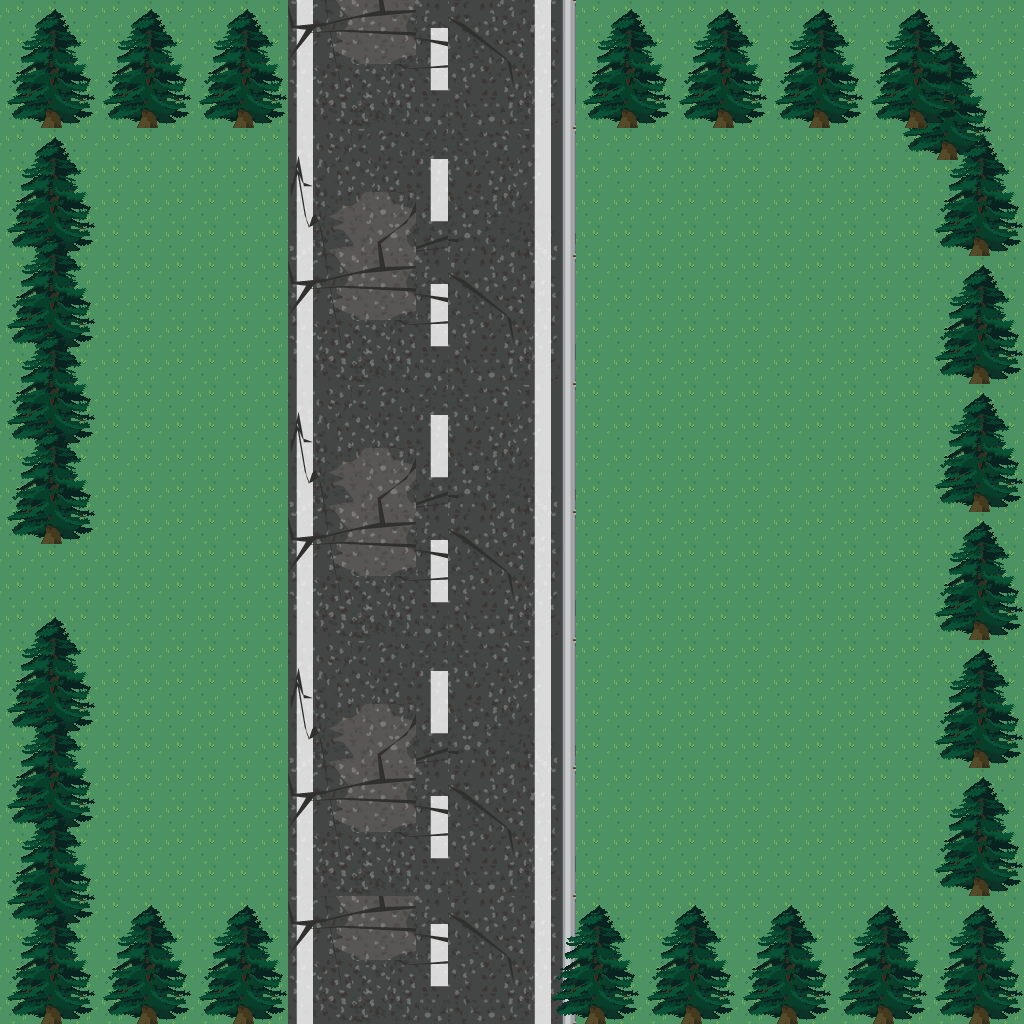
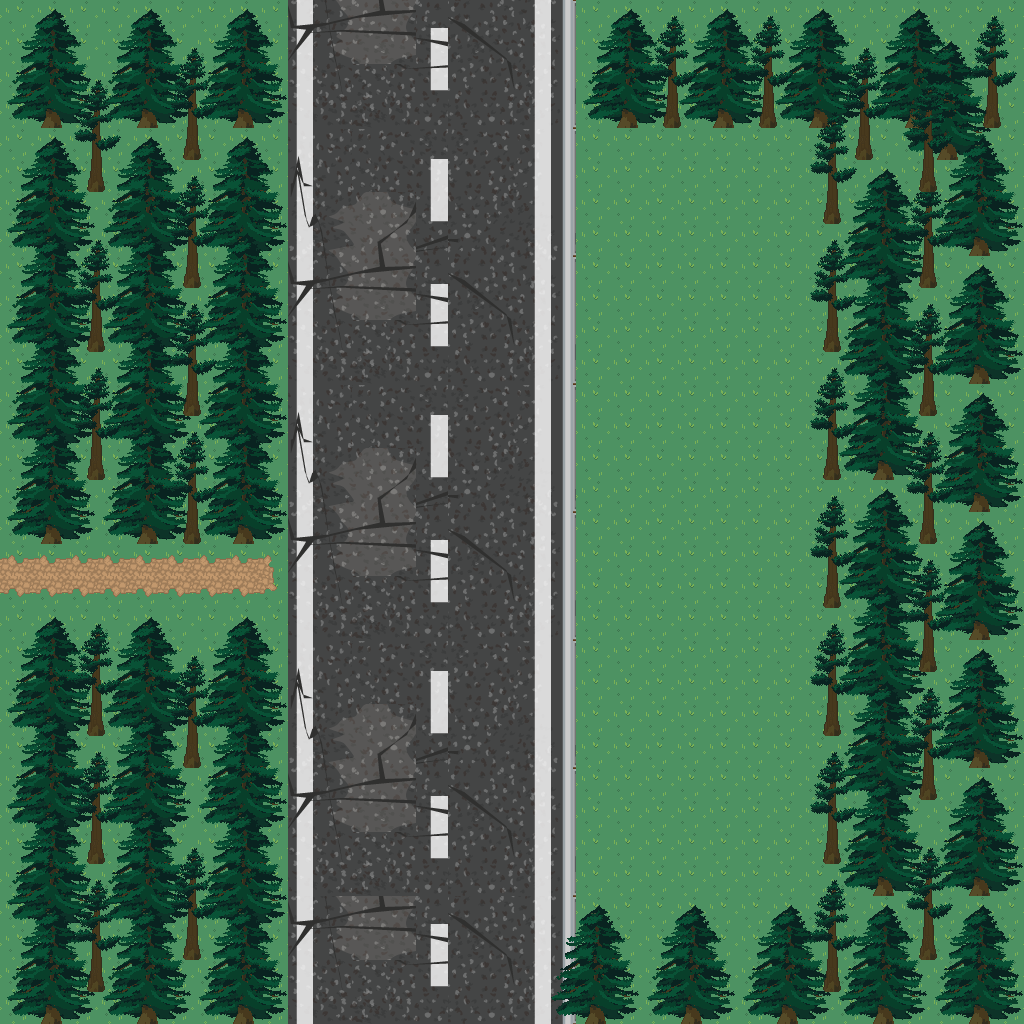
rerender outsidemap with extra trees/add entry point to secret  path

diff --git a/src/main.cpp b/src/main.cpp
@@ -345,11 +345,15 @@ int main()
 		else if (isOutsideTown)
 		{
 			DrawTextureEx(maps[4], outsideTownPos, 0.0, mapScale, WHITE);
-			if(hero.getWorldPos().x < 0 || hero.getWorldPos().x > 1043 
+			if(hero.getWorldPos().x < 70 || hero.getWorldPos().x > 1043 
 				   | hero.getWorldPos().y > 1442 || hero.getWorldPos().y < 0){
 					hero.undoMovement();
 				}
-			if(hero.getWorldPos().y > 1430){
+			if(hero.getWorldPos().x < 95 && hero.getWorldPos().y > 715 && 
+			hero.getWorldPos().y < 870){
+				conversation("Where does this road lead?", hero.getScreenPos().x, hero.getScreenPos().y);
+			}
+			if(hero.getWorldPos().y > 1430 && hero.getWorldPos().x < 600){
 				DrawText("Press E to return to the town", 250, 250, 20, BLACK);
 				if (IsKeyPressed(KEY_E))
 					{
